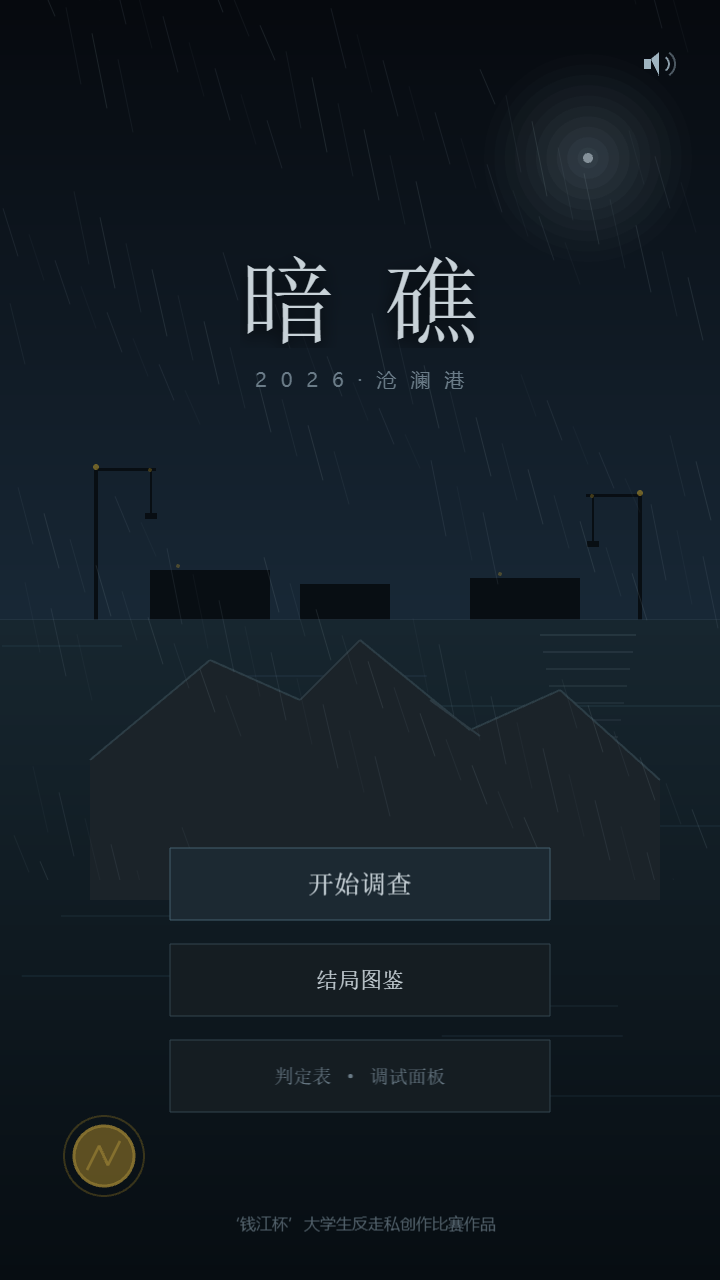
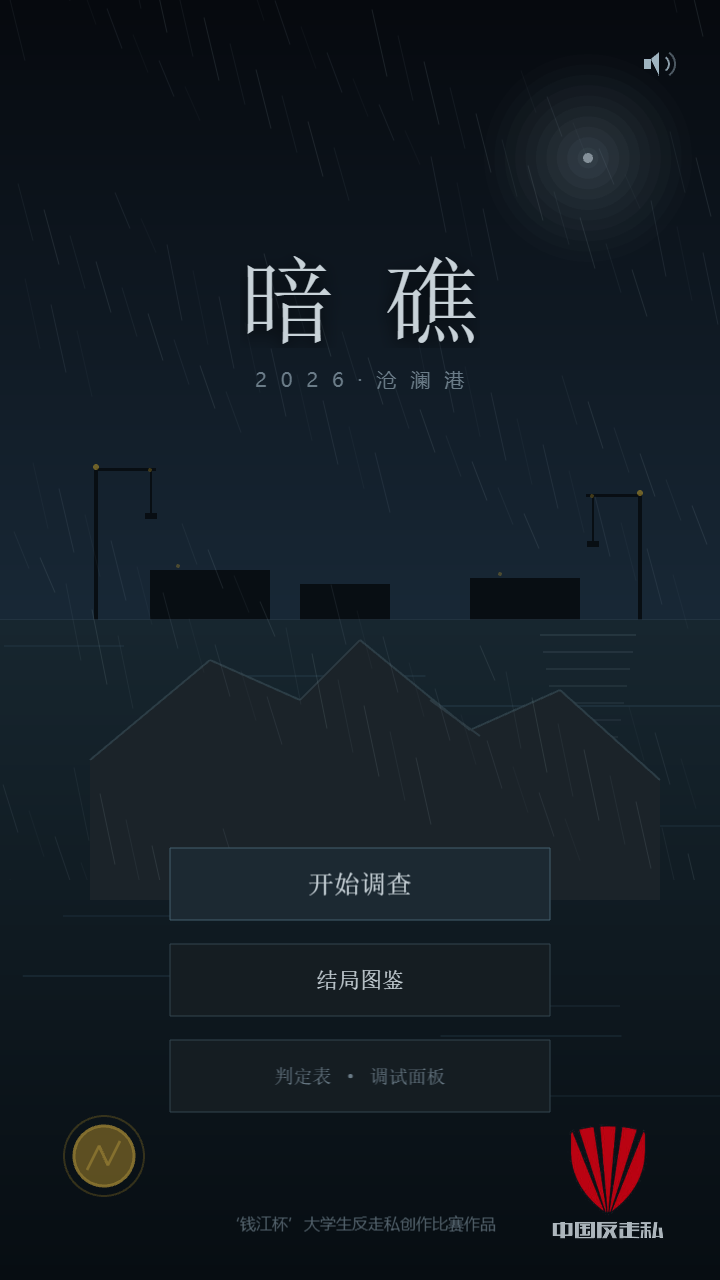
标题页右下角加「中国反走私」标识
比赛主办方的标识，放在标题页右下角：与左下角的铜徽一边一个，
不打乱中间的按钮区。

源图 docs/截图/logo.jpg 是白底 JPEG，直接放上去会带一块白方块，
所以先用 tools/_logo.py 去掉白底；原本的黑色文字在深色背景上等于
隐形，一并转成浅墨。处理结果 248×256，落在 src/assets/ 下。

这是全项目唯一一张位图 —— 其余美术都是 Phaser Graphics 画的。
它没法程序化的原因很实在：图里「中国反走私」五个字是标准字形，
没有矢量路径可画。设计文档 §10.8 和 README 的「素材与 AI 使用」
都补了这条例外，连同一条核查命令。

尺寸试了 84 / 116 / 132 三档，最后取 116（宽约 112）、不透明度
0.86：84 时字号只剩 10 CSS 像素糊成一团，132 时会盖过版式、
并且贴上方的调试面板按钮。决策记在 src/ui/CornerMark.ts 里。

Changed region(s): [[0.7639, 0.875, 0.9167, 0.9688]]

diff --git a/src/ui/CornerMark.ts b/src/ui/CornerMark.ts
@@ -1,0 +1,75 @@
+import Phaser from 'phaser';
+
+import markUrl from '../assets/logo-fan-zousi.png';
+import { GAME_HEIGHT, GAME_WIDTH } from '../config';
+
+/**
+ * 标题页右下角的「中国反走私」标识。
+ *
+ * ── 为什么这里破例用了位图 ──
+ * 全项目其余画面都是 `src/art/` 里用 Graphics 画出来的（场景、道具图标、
+ * 结局插画、人物对照），一张外部图片都没有。这里破例，是因为标识里的
+ * 「中国反走私」五个字是标准字形 —— 没有对应的矢量路径可以画，
+ * 硬凑一套近似字形只会得到一个"像但不是"的东西，比不用还糟。
+ *
+ * ── 为什么源图不能直接用 ──
+ * `docs/截图/logo.jpg` 是白底 JPEG，两处都不合这一页：
+ *   1. 白底在夜景上就是贴上去的一块白纸 → 去白底做透明
+ *   2. 原图的字是**黑的**，而这一页底部是 #0e0708 —— 黑字等于隐形 →
+ *      字换成浅墨。红盾保留：官方标识放在深色背景上时保留主色、把字转浅，
+ *      本来就是常规做法，不算篡改标识。
+ * 两步都在 `tools/_logo.py` 里做完，产物 `src/assets/logo-fan-zousi.png`。
+ *
+ * ── 尺寸 ──
+ * 源图 339×344，裁掉白边后是 248×256（比例 0.969），这里按高度 116 显示（宽约 112）。
+ *
+ * 116 不是随手定的，是被那五个字逼出来的：字高约占整图高度的 22%，
+ * 116 折到 390px 宽的屏上，每个字约 14 个 CSS 像素。实测过另外两档：
+ *   - 84：每个字约 9px，「走」「私」这种笔画多的字直接糊成一道灰，
+ *         远看是一枚盾牌底下拖着一条脏线，比不放还难看
+ *   - 132：字清楚了，但整块红盖过版面，顶边还撞上上面「判定表·调试面板」那格
+ * 116 是"字能认出来"和"不抢版面"之间还剩的那点余地。
+ */
+
+/** 纹理键。`BootScene.preload()` 按它加载，这里按它取用 */
+export const CORNER_MARK_KEY = 'corner-mark';
+
+/** 构建后的图片 URL（`vite.config.ts` 里 `base: './'`，所以是相对路径） */
+export const CORNER_MARK_URL = markUrl;
+
+/** 处理后的图是 248×256，宽高比固定 */
+const RATIO = 248 / 256;
+
+/** 显示高度（逻辑像素） */
+const HEIGHT = 116;
+
+/**
+ * 右边距 / 底边距。
+ *
+ * 不跟底部那行「'钱江杯'…作品」共用基线：那行是 16px 居中，
+ * 标识是 116px 的图，两者对齐反而像没对齐。角标按自己的留白锚在角上，
+ * 横向也够开 —— 那行字最宽到 x≈488，标识从 x≈552 才开始。
+ *
+ * 底边距给 40 还有一层：上面那格「判定表·调试面板」在 y≈1076，
+ * 标识顶边落在 1124，中间留出 20 多像素，开着调试面板时不会挤成一团。
+ * 顺带一提，这个位置和左下角那枚铜徽（y 1126~1186）顶边几乎齐平，
+ * 底部这一条于是读成"左铜徽 · 中说明 · 右标识"。
+ */
+const MARGIN_RIGHT = 56;
+const MARGIN_BOTTOM = 40;
+
+/**
+ * 压一档不透明度。
+ *
+ * 纯红的标识放上去是全页最跳的颜色 —— 比标题还跳。0.86 之后它仍然是这一页
+ * 唯一的红，但不再把视线从「暗礁」两个字上拽走。
+ */
+const ALPHA = 0.86;
+
+export function addCornerMark(scene: Phaser.Scene): void {
+  scene.add
+    .image(GAME_WIDTH - MARGIN_RIGHT, GAME_HEIGHT - MARGIN_BOTTOM, CORNER_MARK_KEY)
+    .setOrigin(1, 1)
+    .setDisplaySize(HEIGHT * RATIO, HEIGHT)
+    .setAlpha(ALPHA);
+}

diff --git a/src/scenes/BootScene.ts b/src/scenes/BootScene.ts
@@ -1,11 +1,14 @@
 import Phaser from 'phaser';
 
 import { preloadSfx } from '../core/Sfx';
+import { CORNER_MARK_KEY, CORNER_MARK_URL } from '../ui/CornerMark';
 
 /**
  * 启动场景。
- * P0 阶段没有外部美术资源，全部用程序化图形占位；
- * 正式美术接入后，这里改成 this.load.* 并保留进度条。
+ *
+ * 画面仍以程序化图形为主（见 `src/art/`），全项目唯一的位图是标题页右下角
+ * 那枚「中国反走私」标识 —— 里面的标准字形没法用 Graphics 画。它的来源、
+ * 处理过程和尺寸决策记在 `src/ui/CornerMark.ts` 里。
  */
 export class BootScene extends Phaser.Scene {
   constructor() {
@@ -17,6 +20,10 @@ export class BootScene extends Phaser.Scene {
     // 音效只加载 SFX_FILES 里登记过的项 —— 清单为空时一个请求都不发，
     // 所以 P0~P4 不会因为缺素材冒出一堆 404。
     preloadSfx(this);
+
+    // 标识是全项目唯一要预载的图：248×256、66 KB，而标题页第一帧就要用它，
+    // 留到 TitleScene 里再 load 会先闪一下空白。
+    this.load.image(CORNER_MARK_KEY, CORNER_MARK_URL);
   }
 
   create(): void {

diff --git a/src/scenes/TitleScene.ts b/src/scenes/TitleScene.ts
@@ -6,6 +6,7 @@ import { DEBUG_ENTRY, DEBUG_PANEL_OPEN } from '../debugPanel';
 import { clearProgress, load } from '../core/SaveManager';
 import { isMuted, setMuted } from '../core/Sfx';
 import { gameState } from '../store';
+import { addCornerMark } from '../ui/CornerMark';
 import { CreditsPanel } from '../ui/CreditsPanel';
 import { FONT_SANS, FONT_SERIF, makeButton, toCss } from '../ui/theme';
 import { addRain, addShimmer, type ShimmerBand } from '../art/ambient';
@@ -216,6 +217,10 @@ export class TitleScene extends Phaser.Scene {
         color: '#55646e',
       })
       .setOrigin(0.5);
+
+    // 右下角的「中国反走私」标识。只放标题页 —— 调查界面底部整条是道具栏，
+    // 再压一个角标会跟道具抢位置（见 src/ui/CornerMark.ts）。
+    addCornerMark(this);
   }
 
   /**

diff --git a/tools/_logo.py b/tools/_logo.py
@@ -1,0 +1,82 @@
+"""把 docs/截图/logo.jpg 处理成能嵌进《暗礁》标题页右下角的透明 PNG。
+
+源图是白底 JPEG：直接放上去就是一块白贴纸。这里做三件事：
+  1. 去白底（按 min(r,g,b) 反解 alpha，再做一次反预乘），黑字才不会糊成灰边
+  2. 分离「红盾」与「黑字」两类像素 —— 黑字在黑底上等于隐形，必须换成浅墨色
+  3. 裁到内容外框后缩放到目标高度
+
+只输出到 tools/_logo_out/，不动源图。
+"""
+from pathlib import Path
+
+import numpy as np
+from PIL import Image
+
+SRC = Path(r"D:\example\an-jiao\docs\截图\logo.jpg")
+OUT = Path(r"D:\example\an-jiao\tools\_logo_out")
+OUT.mkdir(exist_ok=True)
+
+TARGET_H = 256          # 输出高度（显示尺寸的 ~3 倍，缩下去才锐）
+TEXT_RGB = (200, 210, 216)   # 黑字 → 浅墨（COLORS.ink 一档）
+RED_KEEP = 0.94         # 红盾整体压一点点，别在夜景里打眼
+ALPHA_FLOOR = 0.06      # JPEG 噪声底：低于此的一律全透明
+
+im = Image.open(SRC).convert("RGB")
+w, h = im.size
+a = np.asarray(im).astype(np.float32)
+print(f"源图      {w}x{h}  ({SRC.stat().st_size / 1024:.1f} KB)")
+
+# ── 背景判定 ──
+corners = np.stack([a[0, 0], a[0, -1], a[-1, 0], a[-1, -1]])
+print(f"四角均值  {corners.mean(axis=0).round(1)}  (应当接近 255 = 白底)")
+
+# ── alpha：白底反解。min(r,g,b) 越接近 255 越透明 ──
+mn = a.min(axis=2)
+alpha = 1.0 - mn / 255.0
+alpha[alpha < ALPHA_FLOOR] = 0.0
+
+# ── 反预乘：把「白底贡献」从颜色里减掉，否则红盾边缘会拖一圈粉白 ──
+safe = np.maximum(alpha, 1e-6)[..., None]
+color = (a - (1.0 - safe) * 255.0) / safe
+color = np.clip(color, 0, 255)
+
+# ── 分类：高饱和且红占优 = 红盾；其余 = 黑字 ──
+mx = color.max(axis=2)
+sat = mx - color.min(axis=2)
+is_red = (sat > 40) & (color[..., 0] > color[..., 1] + 20)
+
+print(f"红盾像素  {int(is_red.sum())}  ({is_red.mean() * 100:.1f}%)")
+if is_red.any():
+    print(f"红盾主色  {color[is_red].mean(axis=0).round(0)}  (源图里的红)")
+print(f"文字像素  {int((~is_red & (alpha > 0.5)).sum())}")
+
+# 红盾微调、文字换色
+color[is_red] *= RED_KEEP
+color[~is_red] = TEXT_RGB
+
+rgba = np.dstack([color, alpha * 255.0]).astype(np.uint8)
+img = Image.fromarray(rgba, "RGBA")
+
+# ── 裁到内容外框 ──
+bbox = img.getchannel("A").point(lambda v: 255 if v > 8 else 0).getbbox()
+print(f"内容外框  {bbox}")
+img = img.crop(bbox)
+
+# ── 缩放到目标高度 ──
+cw, ch = img.size
+img = img.resize((max(1, round(cw * TARGET_H / ch)), TARGET_H), Image.LANCZOS)
+print(f"输出尺寸  {img.size[0]}x{img.size[1]}  (比例 {img.size[0] / img.size[1]:.3f})")
+
+dst = OUT / "logo.png"
+img.save(dst)
+print(f"已写出    {dst}  ({dst.stat().st_size / 1024:.1f} KB)")
+
+# ── 预览：贴在标题页右下角那块的实际底色上 ──
+for label, bg, disp_h in (("实际大小-暗底", (14, 7, 8), 84), ("放大-暗底", (14, 7, 8), 220)):
+    pw, ph = disp_h * 2 + 120, disp_h + 120
+    canvas = Image.new("RGBA", (pw, ph), bg + (255,))
+    preview = img.resize((max(1, round(img.size[0] * disp_h / img.size[1])), disp_h), Image.LANCZOS)
+    canvas.alpha_composite(preview, ((pw - preview.size[0]) // 2, (ph - preview.size[1]) // 2))
+    p = OUT / f"preview-{label}.png"
+    canvas.convert("RGB").save(p)
+    print(f"预览      {p}")

diff --git a/docs/杂项/01-设计文档.md b/docs/杂项/01-设计文档.md
@@ -756,16 +756,27 @@ doc / evidence / backArmed 六个游戏状态位），**不看 tween** ——
 **核查命令**（跑一下就知道有没有外部素材）：
 
 ```powershell
-# public/ 和 src/ 下的图片、音频、字体文件 —— 预期：一个都没有
+# public/ 和 src/ 下的图片、音频、字体文件 —— 预期：**有且只有一个**
 Get-ChildItem -Recurse -File public,src |
   Where-Object { $_.Extension -match '^\.(png|jpg|jpeg|webp|gif|svg|wav|mp3|ogg|m4a|flac|ttf|otf|woff2?)$' }
 ```
+
+**预期结果是 `src/assets/logo-fan-zousi.png` 这一个** —— 标题页右下角的
+「中国反走私」标识，理由见下。多出别的文件，要么是误提交，要么就是这一段该更新了；
+别把它当成"又多了一张图不要紧"。
 
 **美术**：全部程序化矢量绘制，用的是 Phaser 4 的 `Graphics` API
 （矩形 / 多边形 / 线段 / 椭圆 / 同心圆 / 扇形），没有用任何图像生成模型，
 也没有用任何绘图软件。5 个文件约 3100 行：
 `art/placeholders.ts`（8 张场景 + 3 个人物）、`art/endingPlates.ts`（6 张结局插画）、
 `art/itemIcons.ts`（11 个道具图标）、`art/ambient.ts` + `art/sceneAmbient.ts`（动效层）。
+
+**唯一的例外**是标题页右下角那枚「中国反走私」标识 —— 比赛主办方的标识，
+由 `docs/截图/logo.jpg`（白底 JPEG）处理而来：去白底做透明，
+并把原本的**黑字转成浅墨**（这一页底部是 #0e0708，黑字等于隐形）。
+它没法程序化的原因很实在：图里「中国反走私」五个字是**标准字形**，
+没有对应的矢量路径可以画 —— 硬凑一套近似字形只会得到一个"像但不是"的东西，比不用还糟。
+处理脚本在 `tools/_logo.py`，尺寸与落位决策记在 `src/ui/CornerMark.ts`。
 
 **音效**：全部 Web Audio 实时合成（振荡器 + 噪声缓冲 + ADSR 包络），
 没有音频素材、没有音频生成模型。`core/audio/synth.ts` + `core/Sfx.ts` 约 570 行。
@@ -775,9 +786,11 @@ Get-ChildItem -Recurse -File public,src |
 换设备时会落到不同的字面，这是已知取舍 —— 换字体文件等于引入外部素材，
 届时这句话也要改。
 
-**仓库里唯一的位图**是 `docs/人物设计图/` 下的三张人物概念图
-（storeman_zhou / boss_chen / deputy_director_li）。它们是**作者自备的参考图**，
-只用于画立绘时对比例和配色，**不在 `public/` 下、不进产物**。
+**仓库里的位图**有两处，性质不一样：
+
+- `docs/人物设计图/` 下三张人物概念图（storeman_zhou / boss_chen / deputy_director_li）
+  —— **作者自备的参考图**，只用于画立绘时对比例和配色，不在 `public/` 下、**不进产物**
+- `src/assets/logo-fan-zousi.png` —— 标题页那枚「中国反走私」标识，**进产物**（66 kB）
 
 **运行期依赖只有 Phaser 4.2.1 一个**（构建期 TypeScript / Vite / Vitest）。
 
